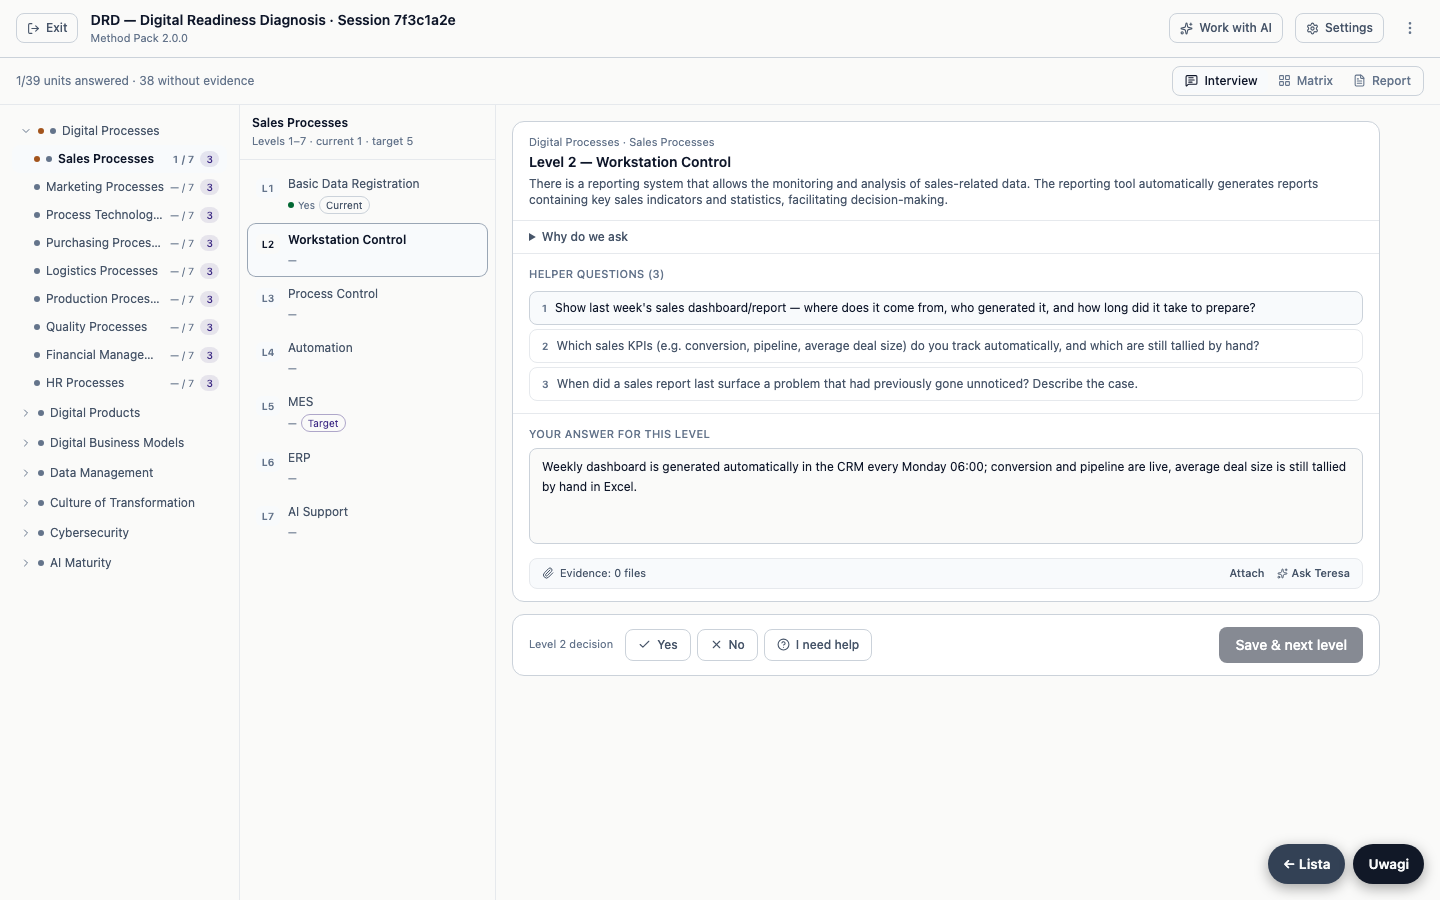
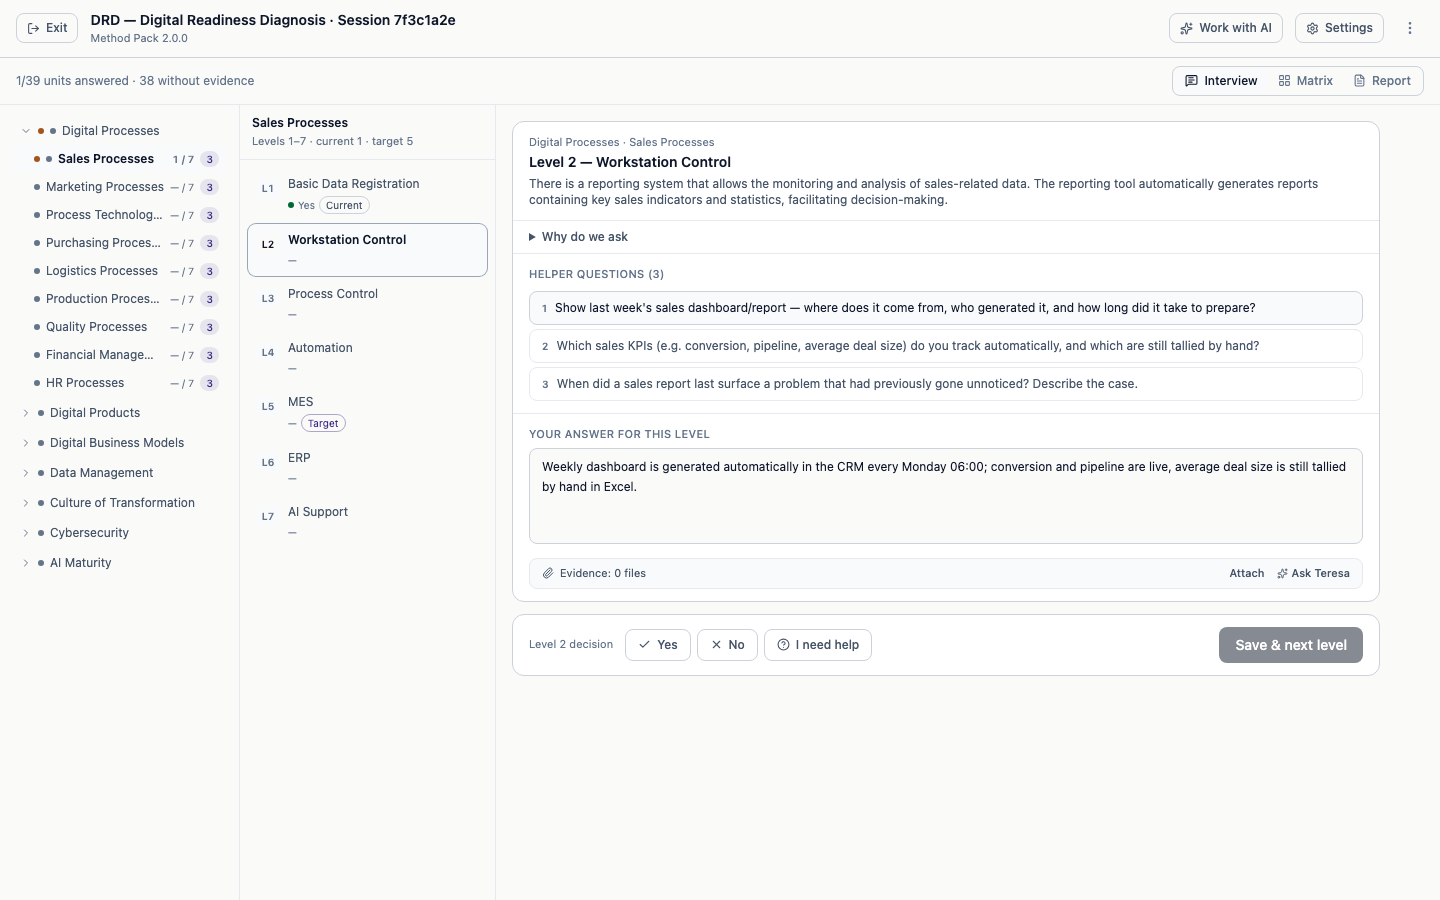
docs(drd): replace decorated screenshots [ODMROZENIE 04_ASSESSMENT DEC-552]

Changed region(s): [[0.875, 0.9333, 1.0, 0.9956]]

diff --git a/docs/program/PROGRAM_NAPRAWCZY_20260905/INTEGRATOR_MVP_20260912/W103_DRD_2B_DEC552_FREEZE_20260916.md b/docs/program/PROGRAM_NAPRAWCZY_20260905/INTEGRATOR_MVP_20260912/W103_DRD_2B_DEC552_FREEZE_20260916.md
@@ -18,8 +18,9 @@
 - Flagi: `194 / 205 / 13 / 0`; kanon artefaktu `8 / 0 / 117`; kanon list `349`, bez delty.
 - Esbuild ESM: 5/5 wejść PASS; `git diff --check` PASS.
 - Obejrzane zrzuty realnego `MethodWorkspaceShell`, Northwind, EN 1440×900:
[4 lines of base64/hex data omitted]
+- Oba kadry wygenerowano z `uwagi=0`; nie zawierają kontrolek harnessu „← Lista" ani „Uwagi".
 
 ## Review i granice
 
